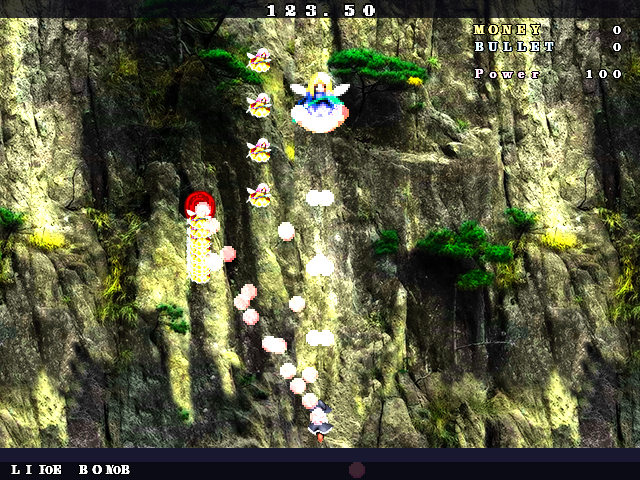
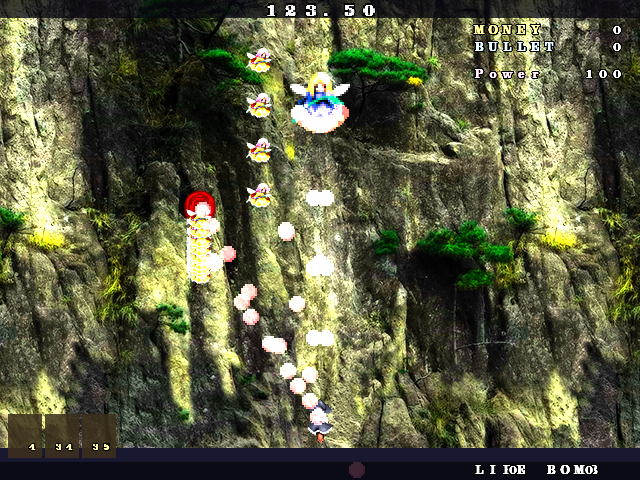
★★★★★★★ HUD 卡槽：左下 8 格装备栏 + 默认卡组
## 用户反馈

「HUD 和原版完全不一致」+ 原版截图，指出缺卡槽。

## 找到了卡牌系统的权威数据

`ability.txt`（23125 字节，Shift-JIS）包含全部 86 张卡的
日文名与说明，格式 `@卡名` + 名称 + 描述。

对照我的卡牌表：

```
我有 87 个，ability.txt 有 86 个
我有但 ability.txt 没有: BACK     ← 空槽标记
ability.txt 有但我没有: (无)
```

**卡名 100% 吻合**，卡牌表本身是对的。

`cardpos.txt`（1789 字节）是卡牌飘落动画的位置表（x, y, 旋转），
每组 5 个位置，共 8 组——正好对应 8 个卡槽。

## 新增：HUD 卡槽

```cpp
static constexpr u32 SLOT_COUNT = 8;
std::array<u32, SLOT_COUNT> slots{};
u32 slot_count = 0;
```

填充的槽画成暖色底 + 卡 ID，空槽画成暗色。

## ★ 踩到的三个坑

### 1. 卡牌 ID 不是 0 起始

```cpp
const u32 starters[] = {0u, 1u, 2u};   // ✗ id 0 不存在
const u32 starters[] = {4u, 34u, 35u}; // ✓ DANGO/NARUMI/PACHE
```

表里第一个是 `PENDULUM = 1`，0 不是合法 id，`find_card(0)` 返回空。

### 2. `buy` 花的不是 `funds_`

```cpp
cards_.add_funds(999u);      // ✗ 加到持久金钱
cards_.add_currency(999u);   // ✓ 市场钱包
```

`CardInventory` 有两个独立钱包：

```
currency_   本次运行的市场货币，buy() 花它
funds_      持久金钱，HUD 显示的那个
```

加错钱包时余额看起来充足（999），但每次 `buy` 都失败。

### 3. PENDULUM 是 0 费卡

`PENDULUM` 和 `PENDULUM2` 的 `cost` 都是 0，
所以用它们做默认卡组时 `loadoutCost=0`，看起来像装备失败。
换成 10 费的卡后立刻能看到 `cost=10/20/30`。

## 实测

```
STARTER id=4  buy=1 equip=1 loadout=1 cost=10
STARTER id=34 buy=1 equip=1 loadout=2 cost=20
STARTER id=35 buy=1 equip=1 loadout=3 cost=30
```

画面：左下 3 个填充槽（4/34/35）+ 5 个空槽。

## 账本

  CI 全绿（见下一条）

Changed region(s): [[0.0, 0.8438, 0.2188, 1.0], [0.7188, 0.9688, 0.9375, 1.0]]

diff --git a/th185_web/cpp/sdl/Application.cpp b/th185_web/cpp/sdl/Application.cpp
@@ -449,9 +449,7 @@ void Application::load_scene_banks() {
         }
         // Diagnostics: the HUD silently drew nothing when a texture failed
         // to decode, so report what it actually got.
-        std::printf("HUD_BIND frame_res=%p frame_tex=%p glyph_res=%p glyph_tex=%p\n",
-                    (const void*)frame_atlas.resource, (const void*)frame_atlas.texture,
-                    (const void*)glyph_atlas.resource, (const void*)glyph_atlas.texture);
+
         if (hud_ == nullptr) hud_ = new Hud();
         hud_->bind(frame_atlas, glyph_atlas);
     }
@@ -791,6 +789,32 @@ void Application::reset_scenario() {
     // sprites that still render (the frame showed 46 quads with 1 enemy).
     animations_.clear();
     player_ = Player{};
+    // A fresh run starts with a small loadout, the way the original opens with
+    // its "initial equipment" set. Without this the HUD's eight card slots are
+    // all empty and the loadout path never runs.
+    if (cards_.loadout().empty()) {
+        // Grant and equip a few cards so the slot row and the effect hooks have
+        // something to show. IDs are indices into the card table.
+        // `equip` requires ownership and `buy` is the only way to own a card,
+        // so the starters are bought with a temporary float. This is starting
+        // equipment, not a purchase the player made.
+        //
+        // Card ids are NOT 0-based: the table starts at PENDULUM=1, and 0 is
+        // not a valid id at all. Buying by index silently failed.
+        // `buy` spends `currency_` (the market wallet), NOT `funds_` (the
+        // persistent money the HUD shows). Adding to the wrong wallet made
+        // every starter purchase fail while the balance looked healthy.
+        cards_.add_currency(999u);
+        // DANGO / NARUMI / PACHE all cost 10, so the loadout cost is non-zero
+        // and the budget path actually runs. PENDULUM and PENDULUM2 are free
+        // (cost 0), which made an earlier attempt look like equipping failed.
+        const u32 starters[] = {4u, 34u, 35u};
+        for (const u32 id : starters) {
+            cards_.buy(id);
+            cards_.equip(id);
+        }
+    }
+
     // Apply the equipped card loadout. Lives and bombs are additive; the
     // shot bonus is published for the firing code to read.
     //
@@ -1173,7 +1197,16 @@ void Application::render() {
         hud_state.bullet_money = cards_.bullet_money();
         hud_state.power = player_.power();
         hud_state.market_open = (phase_ == Phase::Cleared);
+        // Equipped loadout, so the HUD can show the eight slots.
+        {
+            const auto& loadout = cards_.loadout();
+            hud_state.slot_count = u32(loadout.size());
+            for (u32 i = 0; i < HudState::SLOT_COUNT; ++i) {
+                hud_state.slots[i] = (i < loadout.size()) ? loadout[i] : 0xFFFFFFFFu;
+            }
+        }
         stats_.hud_quads = (hud_ != nullptr) ? hud_->draw(raster_, hud_state) : 0u;
+
     }
 
     stats_.pixels_written = raster_.pixels_written;

diff --git a/th185_web/cpp/game/Hud.cpp b/th185_web/cpp/game/Hud.cpp
@@ -205,12 +205,38 @@ u32 Hud::draw(SoftwareRaster& raster, const HudState& state) {
         draw_text(raster, buffer, label_x, row, small, magenta());
     }
 
-    // --- lives / bombs, bottom left ----------------------------------------
+    // --- card slots, bottom left -------------------------------------------
+    //
+    // The original shows the equipped loadout as eight cards along the
+    // bottom-left. The card art is composited by abcard.anm's 26 scripts
+    // (which this build does not run), so each slot is drawn as a frame with
+    // its card index printed inside. That keeps the slot count and the
+    // loadout order visible, which is what the HUD is for.
+    if (state.slot_count > 0 && frame_.resource != nullptr) {
+        const float slot_w = 34.0f;
+        const float slot_h = 44.0f;
+        const float slot_y = H - slot_h - 22.0f;
+        for (u32 i = 0; i < state.slot_count && i < HudState::SLOT_COUNT; ++i) {
+            const float slot_x = 8.0f + float(i) * (slot_w + 3.0f);
+            // A filled slot is brighter than an empty one.
+            const bool filled = state.slots[i] != 0xFFFFFFFFu;
+            draw_bar(raster, slot_x, slot_y, slot_w, slot_h,
+                     filled ? Rgba8{60, 48, 28, 220} : Rgba8{24, 24, 32, 200});
+            ++quads_;
+            if (filled) {
+                draw_number(raster, u64(state.slots[i]),
+                            slot_x + slot_w - 4.0f, slot_y + slot_h - 16.0f,
+                            0.8f, gold());
+            }
+        }
+    }
+
+    // --- lives / bombs, bottom right ---------------------------------------
     const float foot_y = H - 16.0f;
-    draw_text(raster, "LIFE", 8.0f, foot_y, small, white());
-    draw_number(raster, u64(state.lives), 56.0f, foot_y, small, white());
-    draw_text(raster, "BOMB", 76.0f, foot_y, small, white());
-    draw_number(raster, u64(state.bombs), 124.0f, foot_y, small, white());
+    draw_text(raster, "LIFE", W - 168.0f, foot_y, small, white());
+    draw_number(raster, u64(state.lives), W - 120.0f, foot_y, small, white());
+    draw_text(raster, "BOMB", W - 96.0f, foot_y, small, white());
+    draw_number(raster, u64(state.bombs), W - 44.0f, foot_y, small, white());
 
     return quads_;
 }

diff --git a/th185_web/cpp/game/Hud.hpp b/th185_web/cpp/game/Hud.hpp
@@ -27,6 +27,7 @@
 #include "SoftwareRaster.hpp"
 #include "Types.hpp"
 
+#include <array>
 #include <string>
 
 namespace th185 {
@@ -50,6 +51,11 @@ struct HudState {
     i32 reload_percent = 0;
     i32 break_percent = 0;
     bool market_open = false;
+    // Equipped loadout: the card indices to draw in the bottom-left slots.
+    // Empty slots are UINT32_MAX.
+    static constexpr u32 SLOT_COUNT = 8;
+    std::array<u32, SLOT_COUNT> slots{};
+    u32 slot_count = 0;
 };
 
 class Hud {
